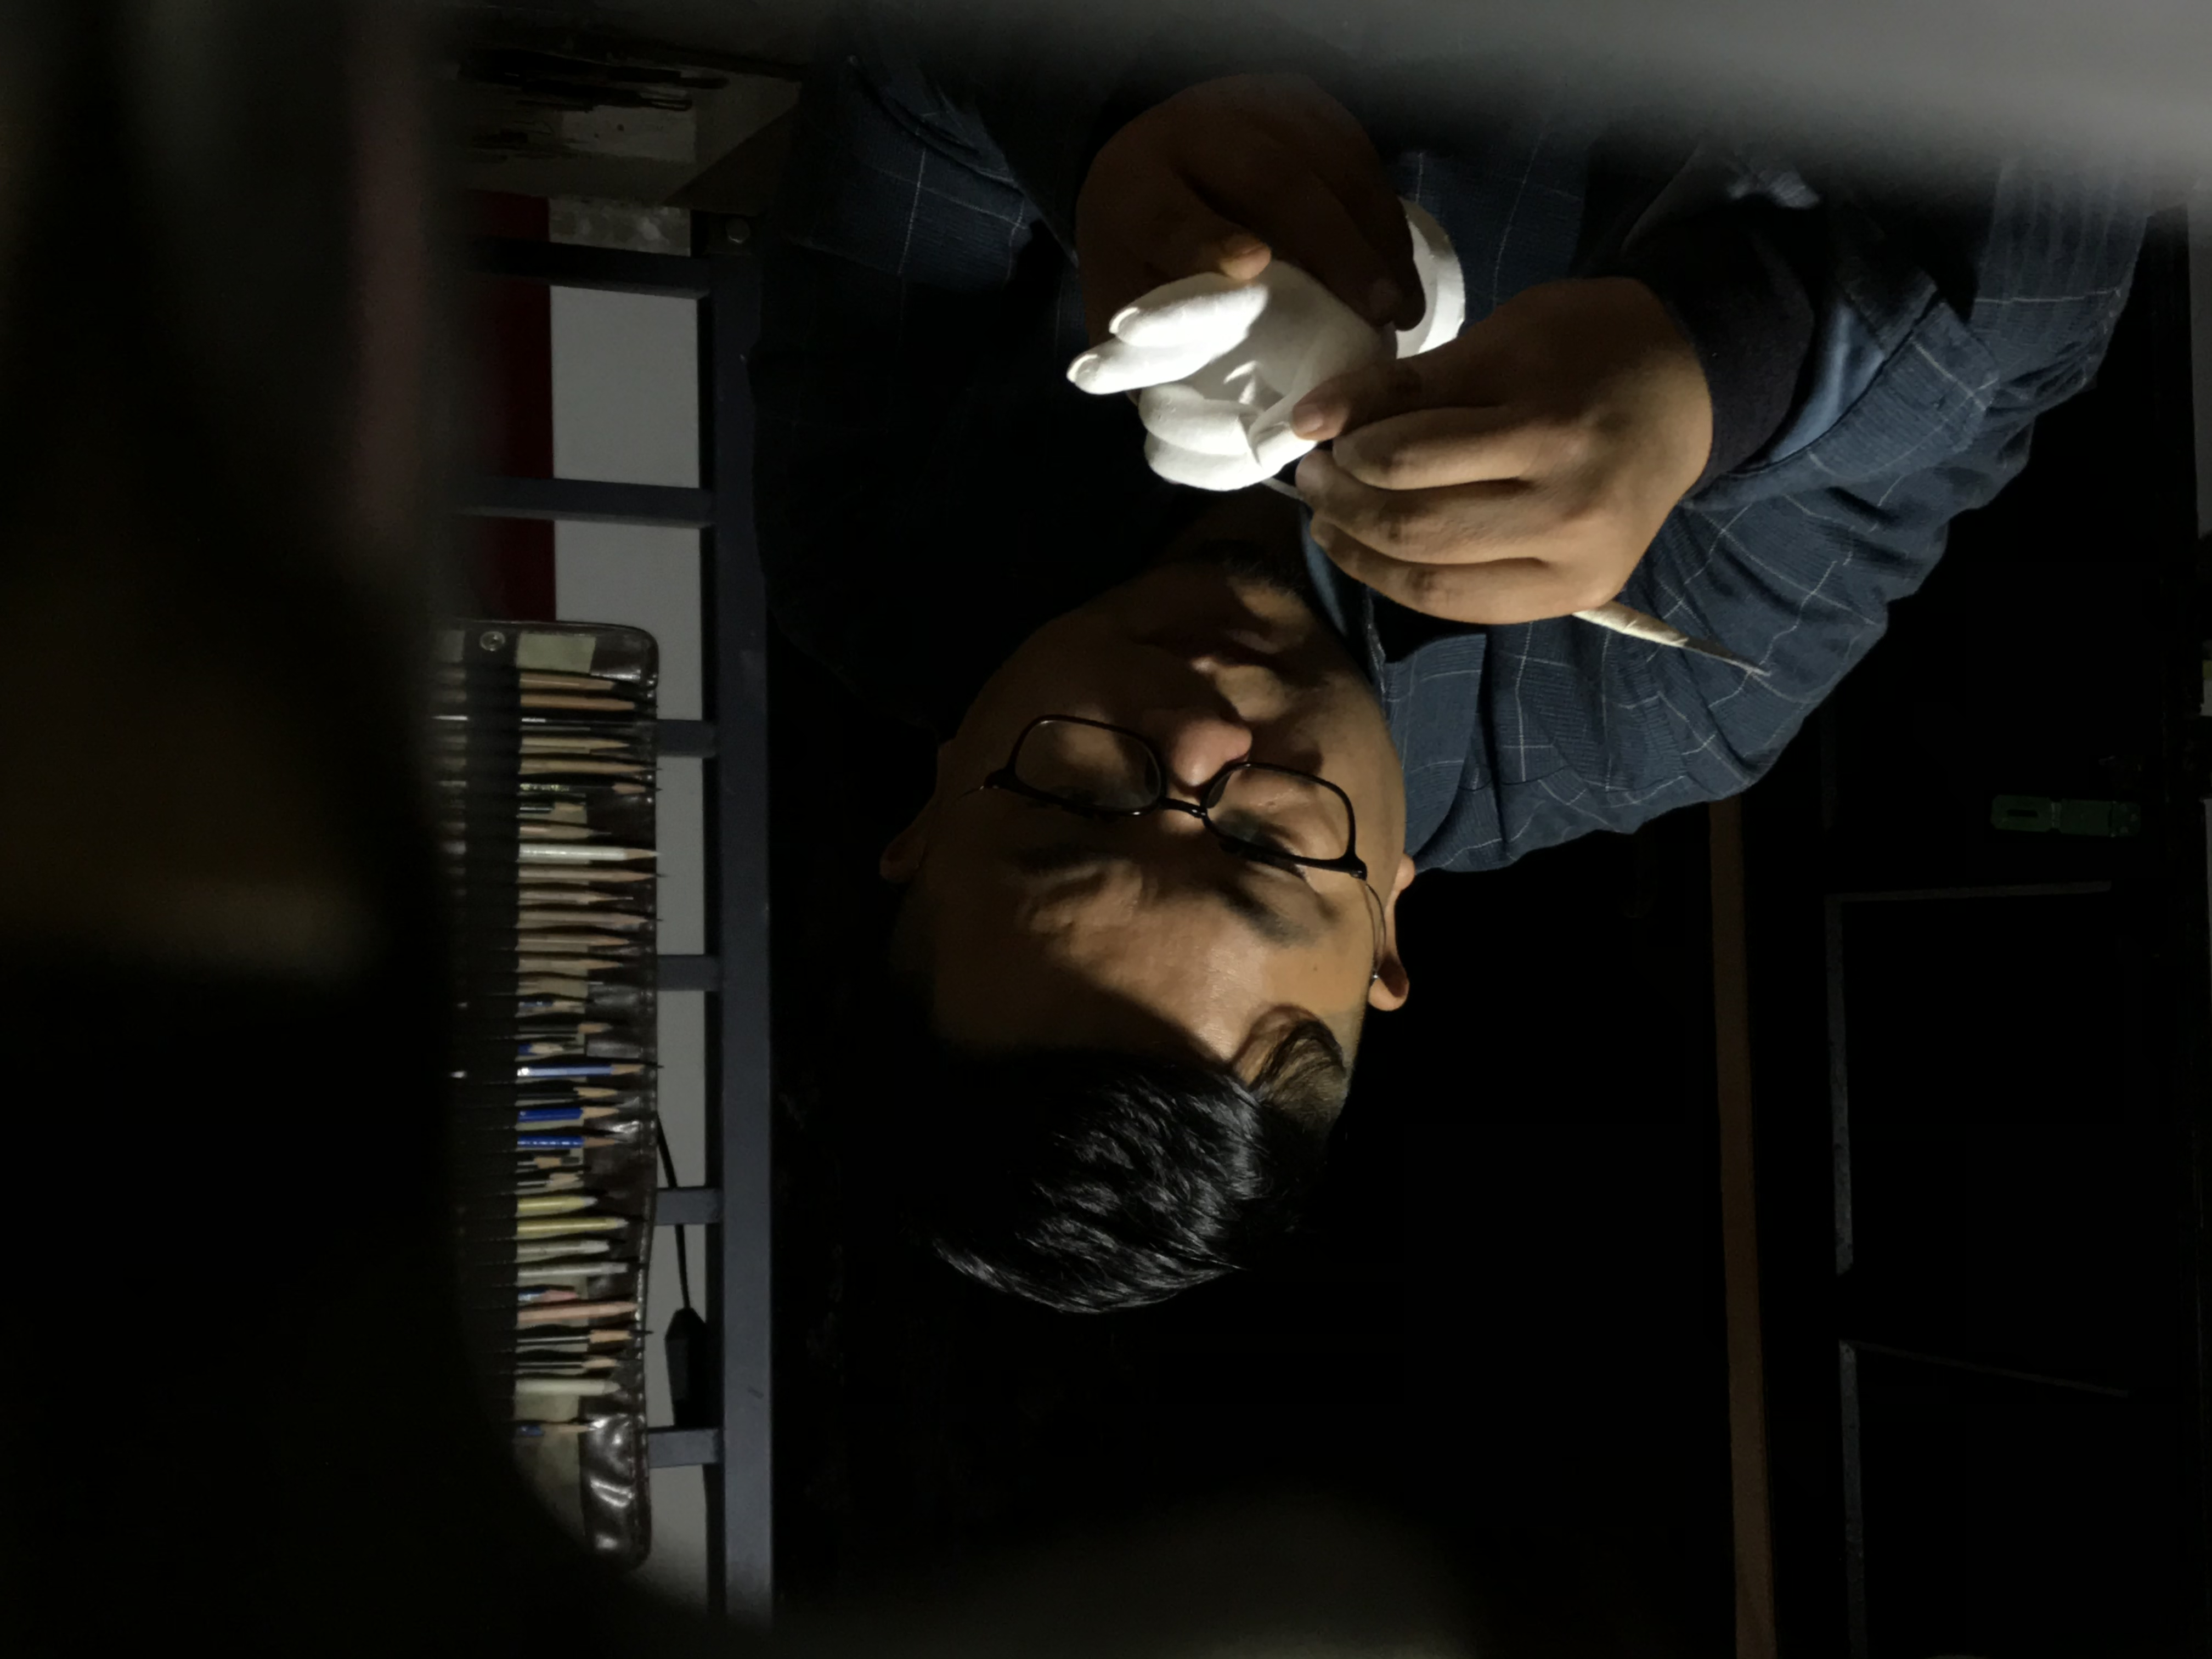
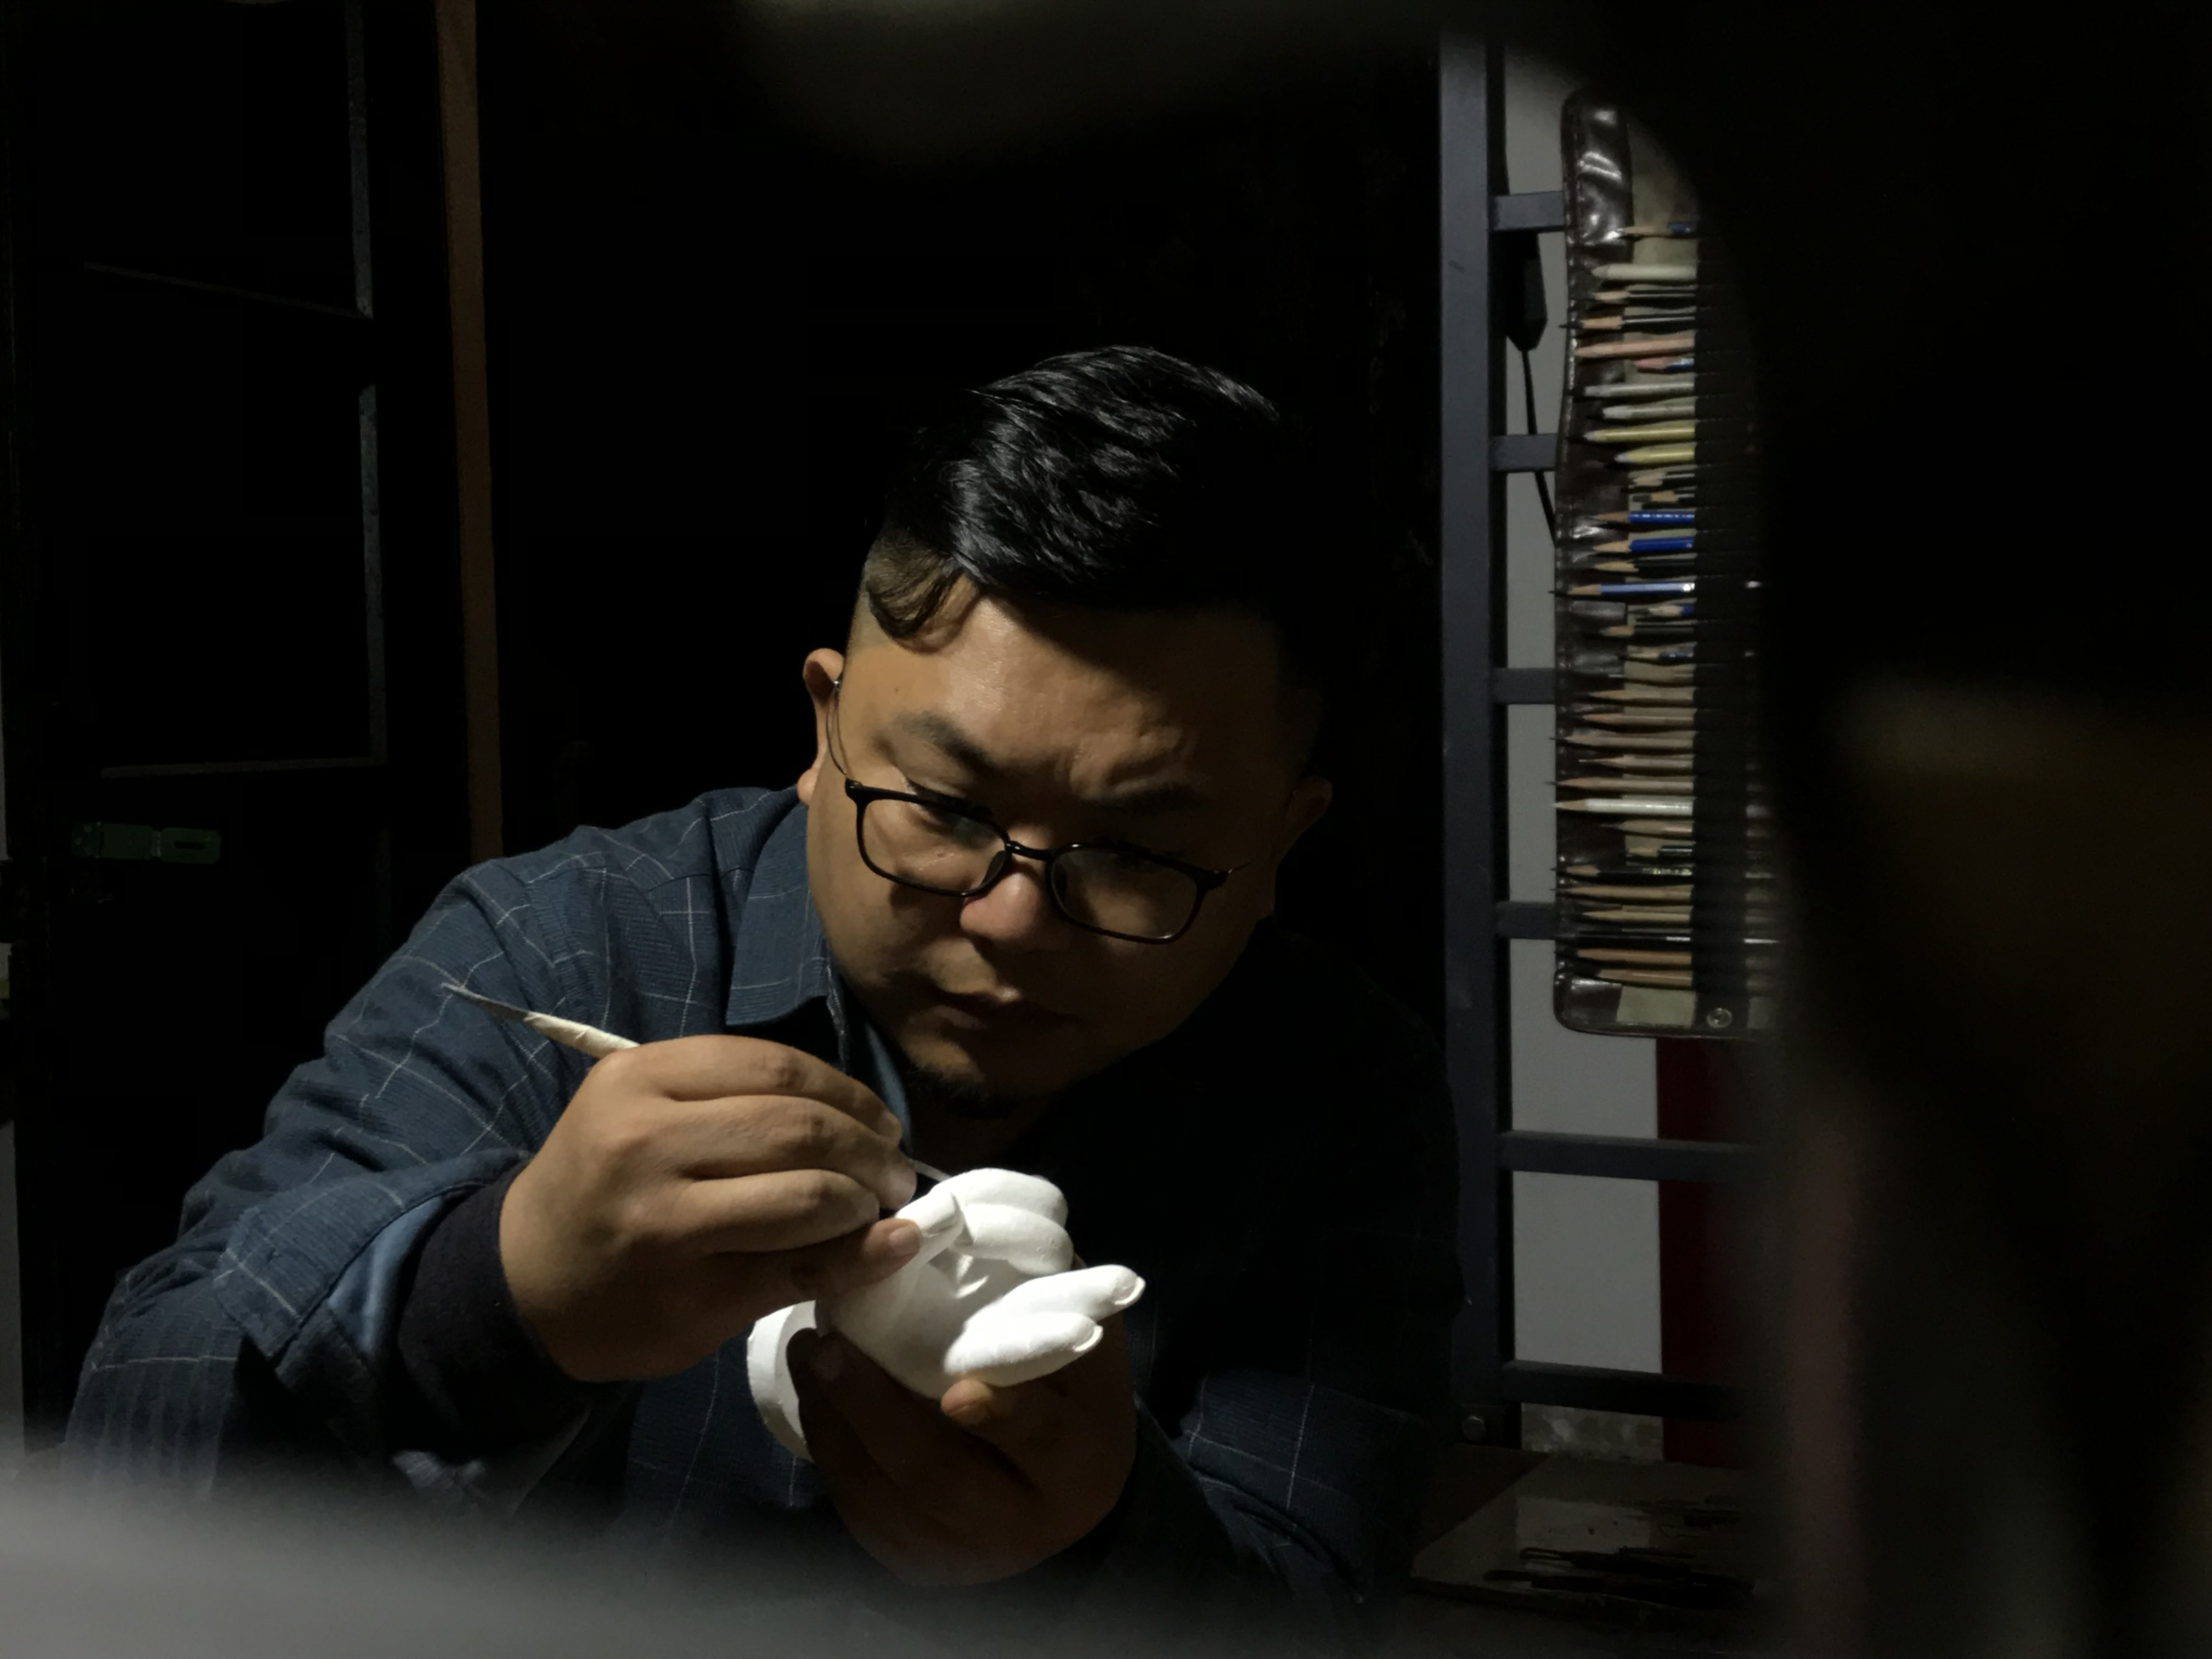
fix: remove Beijing defense project, rotate work photo, add missing timeline images
- Remove Beijing MoD 'National Medal Recipients Relief' project
- Rotate work-photo.jpg 180 degrees and regenerate webp
- Add images for Liupanshui Party Museum and Li Weiru Memorial projects

diff --git a/index.html b/index.html
@@ -1525,14 +1525,6 @@
             <div class="timeline-img"><img src="images/chuanzang-sanjita.webp" loading="lazy" alt="川藏零公里三级塔"></div>
         </div>
         <div class="timeline-item fade-in">
-            <div class="timeline-title">北京国防部「获国家勋章人物浮雕」</div>
-            <div class="timeline-title-en" style="font-family: var(--serif-en); font-size: 0.85rem; color: var(--gray); font-style: italic; margin-bottom: 0.5rem;">National Medal Recipients Relief · Beijing Ministry of Defense</div>
-            <div class="timeline-desc">石雕人物浮雕，长3米×高5.5米 — 2023.9</div>
-        </div>
-        <div class="timeline-item fade-in">
-            <div class="timeline-img"><img src="images/beijing-fudiao.webp" loading="lazy" alt="北京国防部浮雕"></div>
-        </div>
-        <div class="timeline-item fade-in">
             <div class="timeline-title">四川康定将军广场「岳钟琪骑马像」</div>
             <div class="timeline-title-en" style="font-family: var(--serif-en); font-size: 0.85rem; color: var(--gray); font-style: italic; margin-bottom: 0.5rem;">Yue Zhongqi Equestrian Statue · Kangding General Square</div>
             <div class="timeline-desc">铸铜，长3米×高5米 — 2023.9</div>
@@ -1704,6 +1696,9 @@
             <div class="timeline-desc">浮雕墙（树脂防砂岩）、邓小平视察地宗煤矿（玻璃钢防铜）、千锤姑娘（玻璃钢防铜）、入党誓词（不锈钢锻造）、罗师长带病指挥工作场景雕塑等 — 2018.6</div>
         </div>
         <div class="timeline-item fade-in">
+            <div class="timeline-img"><img src="images/dangjian.webp" loading="lazy" alt="六盘水党建博物馆展陈雕塑"></div>
+        </div>
+        <div class="timeline-item fade-in">
             <div class="timeline-title">六盘水「民族马拉松」主题雕塑</div>
             <div class="timeline-title-en" style="font-family: var(--serif-en); font-size: 0.85rem; color: var(--gray); font-style: italic; margin-bottom: 0.5rem;">Ethnic Marathon Theme Sculpture · Liupanshui</div>
             <div class="timeline-desc">铸铜，高180cm — 2018.3</div>
@@ -1774,6 +1769,9 @@
             <div class="timeline-title">重庆涪陵「李蔚如纪念馆」场景雕塑</div>
             <div class="timeline-title-en" style="font-family: var(--serif-en); font-size: 0.85rem; color: var(--gray); font-style: italic; margin-bottom: 0.5rem;">Li Weiru Memorial Hall · Fuling, Chongqing</div>
             <div class="timeline-desc">青铜雕塑、场景雕塑（主体120×120×320cm）、红旗背板（玻璃钢烤漆 420×25×340cm）、《开展减租减息》《成立农会》等油画（200×120cm / 300×200cm）— 2016</div>
+        </div>
+        <div class="timeline-item fade-in">
+            <div class="timeline-img"><img src="images/ximei-changjing.webp" loading="lazy" alt="李蔚如纪念馆场景雕塑"></div>
         </div>
         <div class="timeline-item fade-in">
             <div class="timeline-title">重庆「星汇两江」夜光花装置</div>